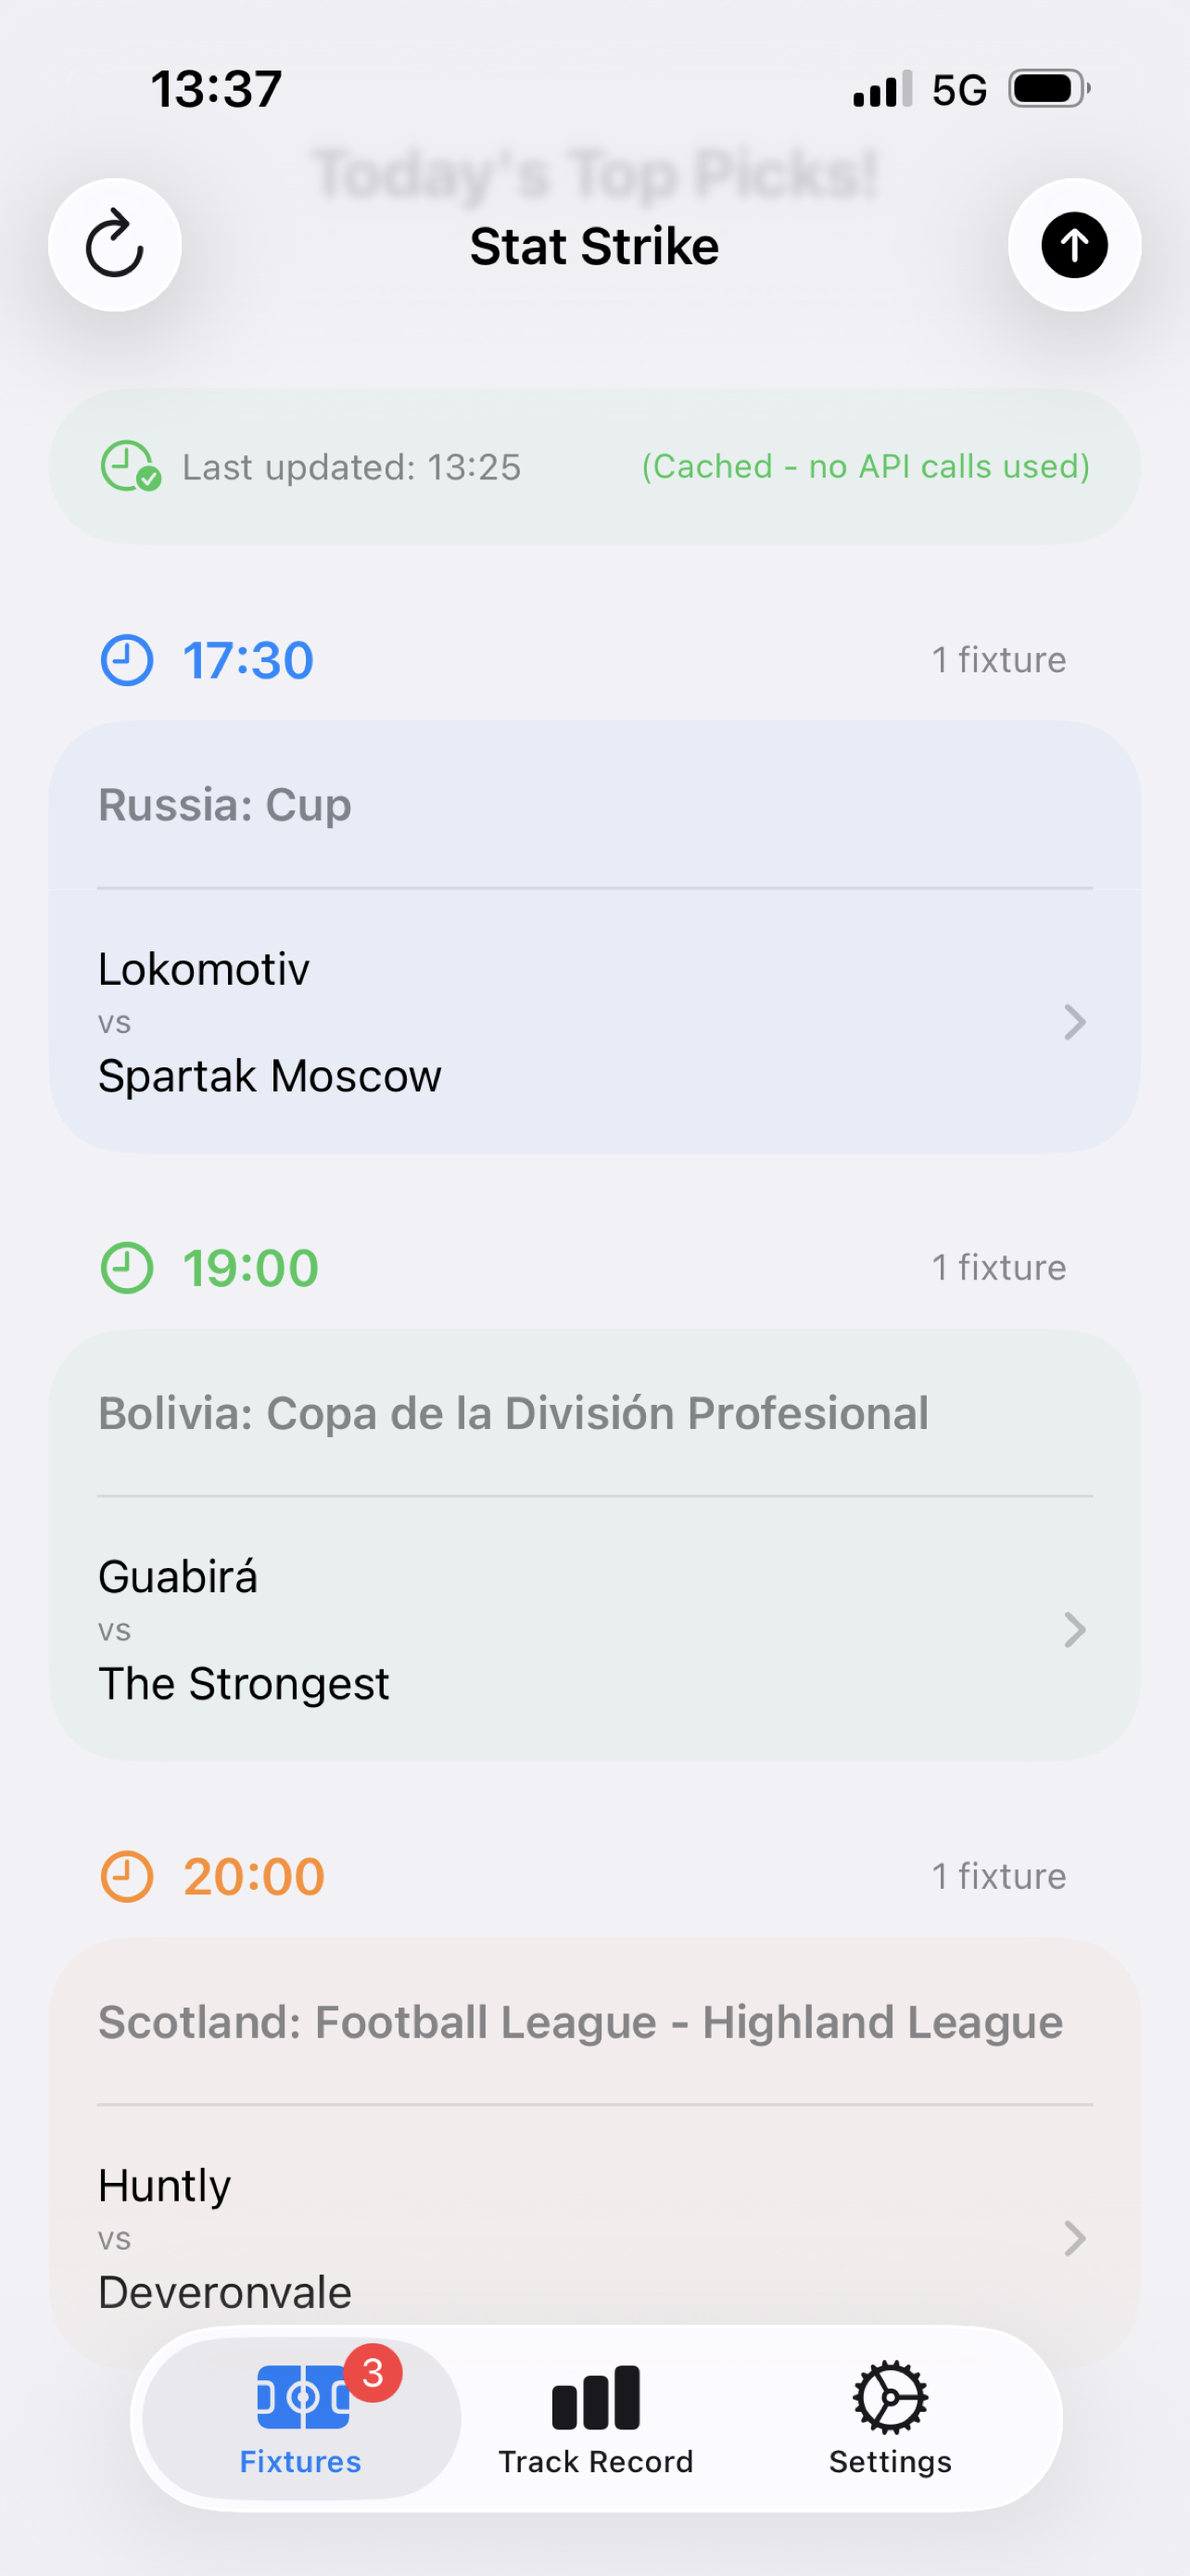
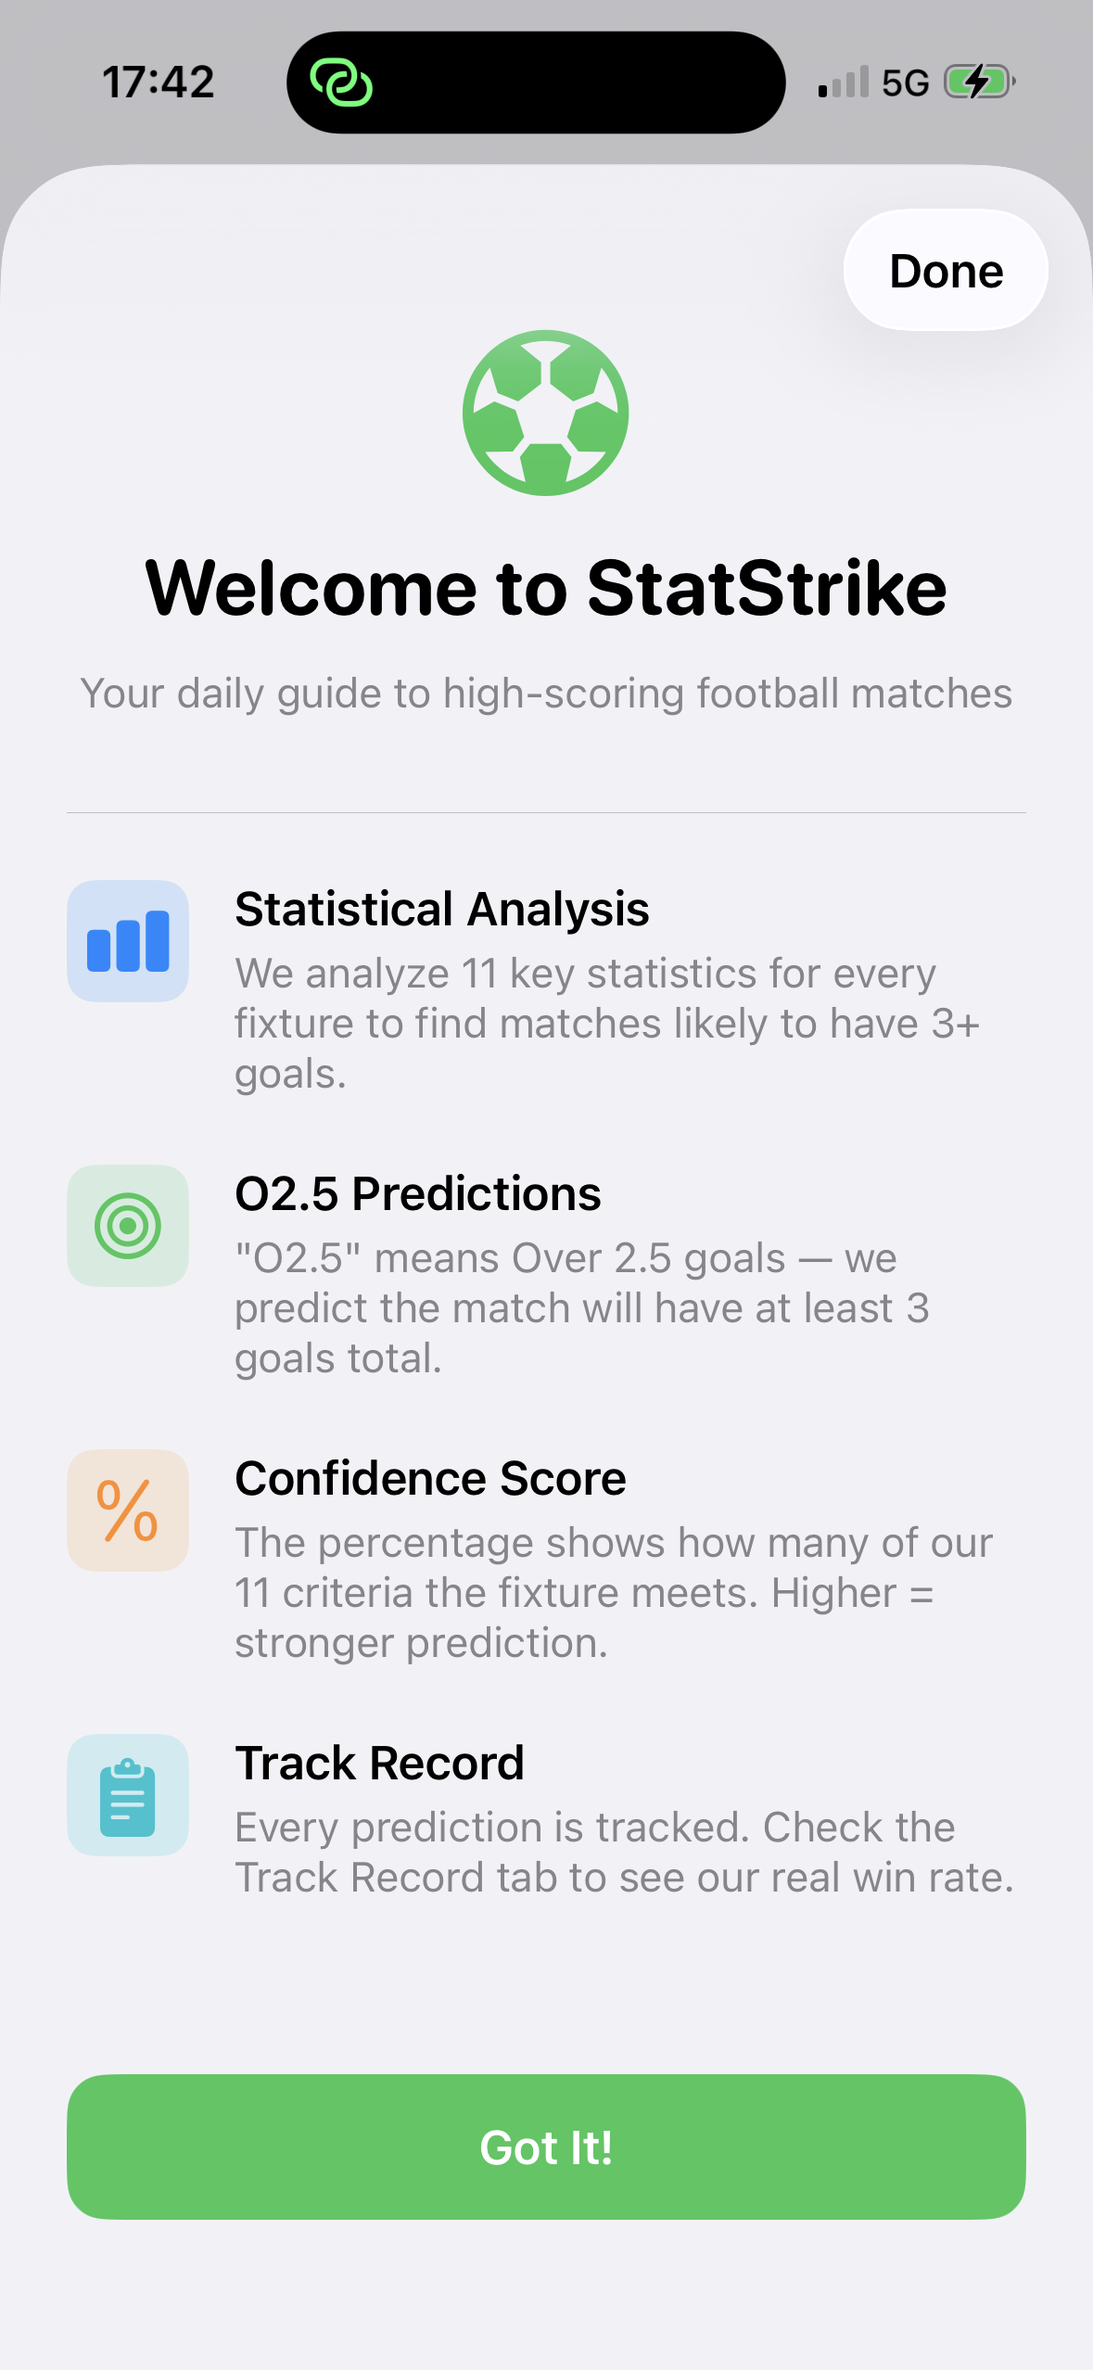
Update StatStrike modal with new WelcomeSS and TrackRecord screenshots, remove outdated third image

diff --git a/lib/apps-data.ts b/lib/apps-data.ts
@@ -129,20 +129,22 @@ export const apps: App[] = [
     id: 'stat-strike',
     name: 'StatStrike',
     tagline: 'Smart Football Predictions',
-    description: 'StatStrike uses key criteria to identify matches with genuine goal potential.',
+    description: 'A subscription-based sports prediction app featuring Firebase integration, premium SwiftUI animations, and a proprietary statistical algorithm — built with a focus on delightful UX and transparent performance tracking.',
     color: '#10B981',
     icon: '/images/stat-strike-icon.png',
     screenshots: [
       '/images/stat-strike-1.png',
       '/images/stat-strike-2.png',
-      '/images/stat-strike-3.png',
     ],
     features: [
-      'Statistical analysis of fixtures',
-      'Multiple goal band predictions',
-      'Track Record to monitor performance',
-      'Quality over quantity approach',
-      'Automated daily updates',
+      'MVVM architecture with Swift Concurrency (async/await)',
+      'Firebase Realtime Database integration',
+      'Premium UI: animated gradients, skeleton loaders, haptics, confetti',
+      'Dark Mode with semantic colors throughout',
+      'Visual confidence gauges & live match pulsing indicators',
+      'Subscription management with free trial support',
+      'Local caching for offline access',
+      'Transparent Track Record with win/loss reconciliation',
     ],
     platform: 'iOS',
     status: 'beta',

diff --git a/app/privacy/statstrike/page.tsx b/app/privacy/statstrike/page.tsx
@@ -228,3 +228,4 @@ export default function StatStrikePrivacySupportPage() {
   );
 }
 
+

diff --git a/app/privacy/nudgetronic/page.tsx b/app/privacy/nudgetronic/page.tsx
@@ -88,3 +88,4 @@ export default function NudgetronicPrivacyPage() {
   );
 }
 
+

diff --git a/app/support/nudgetronic/page.tsx b/app/support/nudgetronic/page.tsx
@@ -74,3 +74,4 @@ export default function NudgetronicSupportPage() {
   );
 }
 
+
